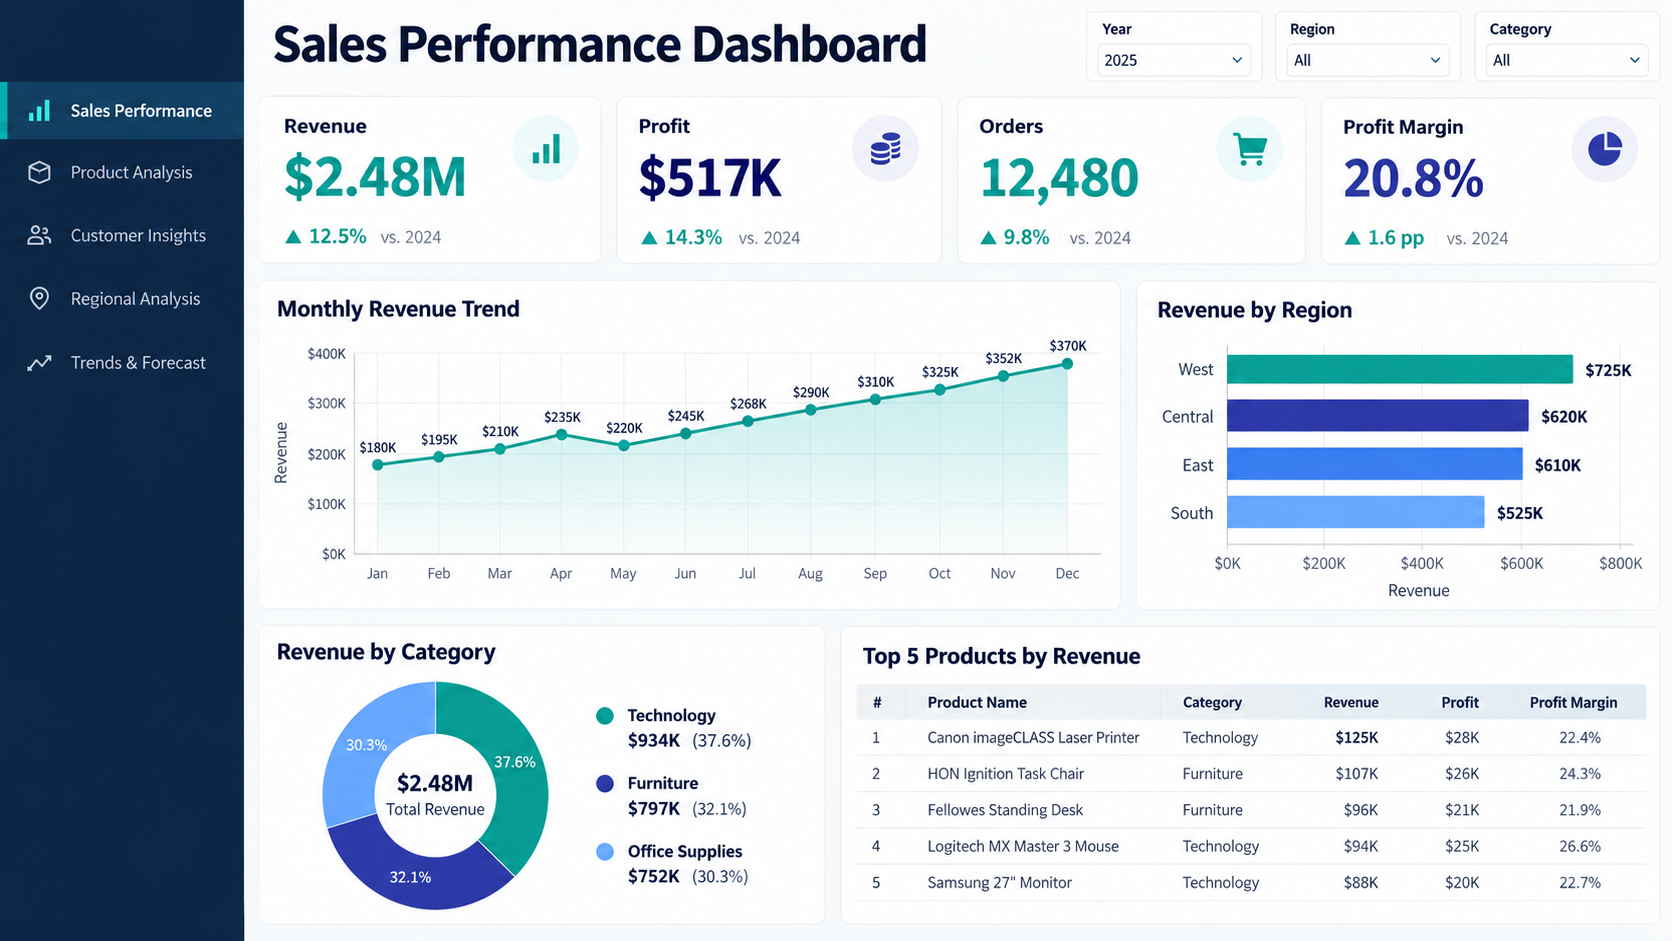
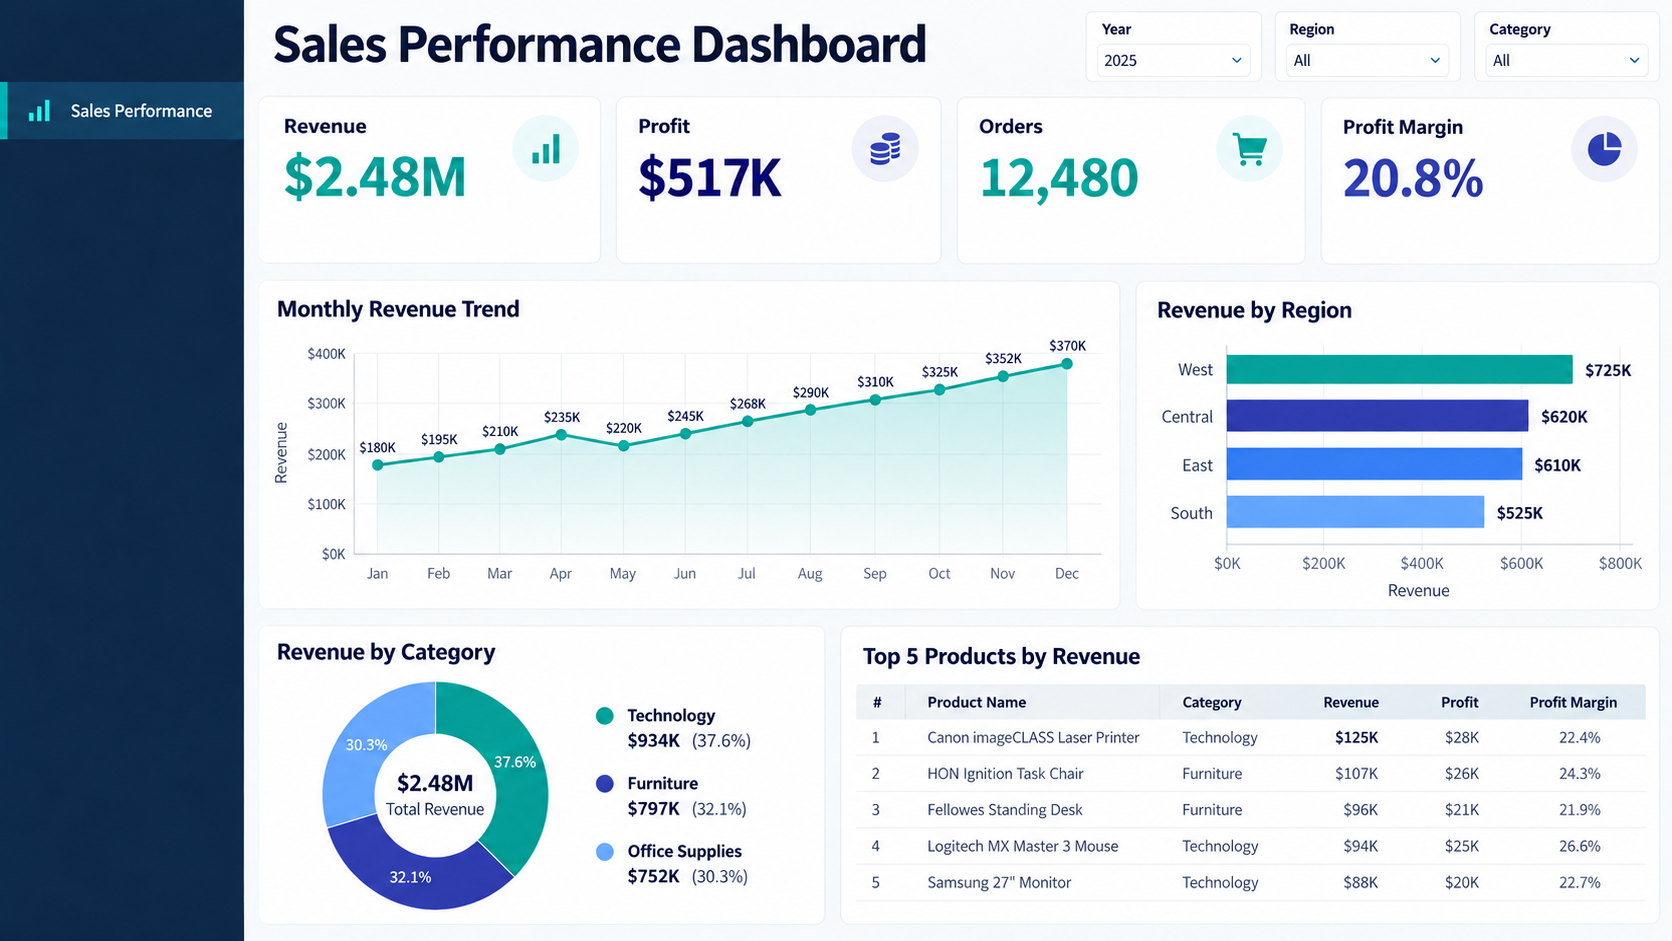
Refine sales dashboard portfolio preview

diff --git a/README.md b/README.md
@@ -19,7 +19,7 @@ I create Power BI reports for workforce, travel spending, and healthcare data. T
 
 ![Sales performance dashboard preview](assets/sales_performance_dashboard.png)
 
-This dashboard gives sales teams a view of how revenue, profit, order volume, and profit margin change over the year. The regional and category breakdowns help compare where sales are strongest, while the monthly trend makes changes over time easier to spot. The [sample dataset](datasets/sales_performance_sample.csv) contains fictional 2025 summary data by date, region, and category. It can be used to build a similar report in Power BI, but it does not include the product details or prior year figures shown in the preview.
+This dashboard brings sales performance into one view, with revenue, profit, order volume, and profit margin tracked across the year. Regional and category comparisons show where sales are strongest, while the monthly trend helps teams follow changes over time. The product table adds detail on top revenue contributors, supporting conversations about sales mix and areas for further review.
 
 ### Workforce analytics
 
